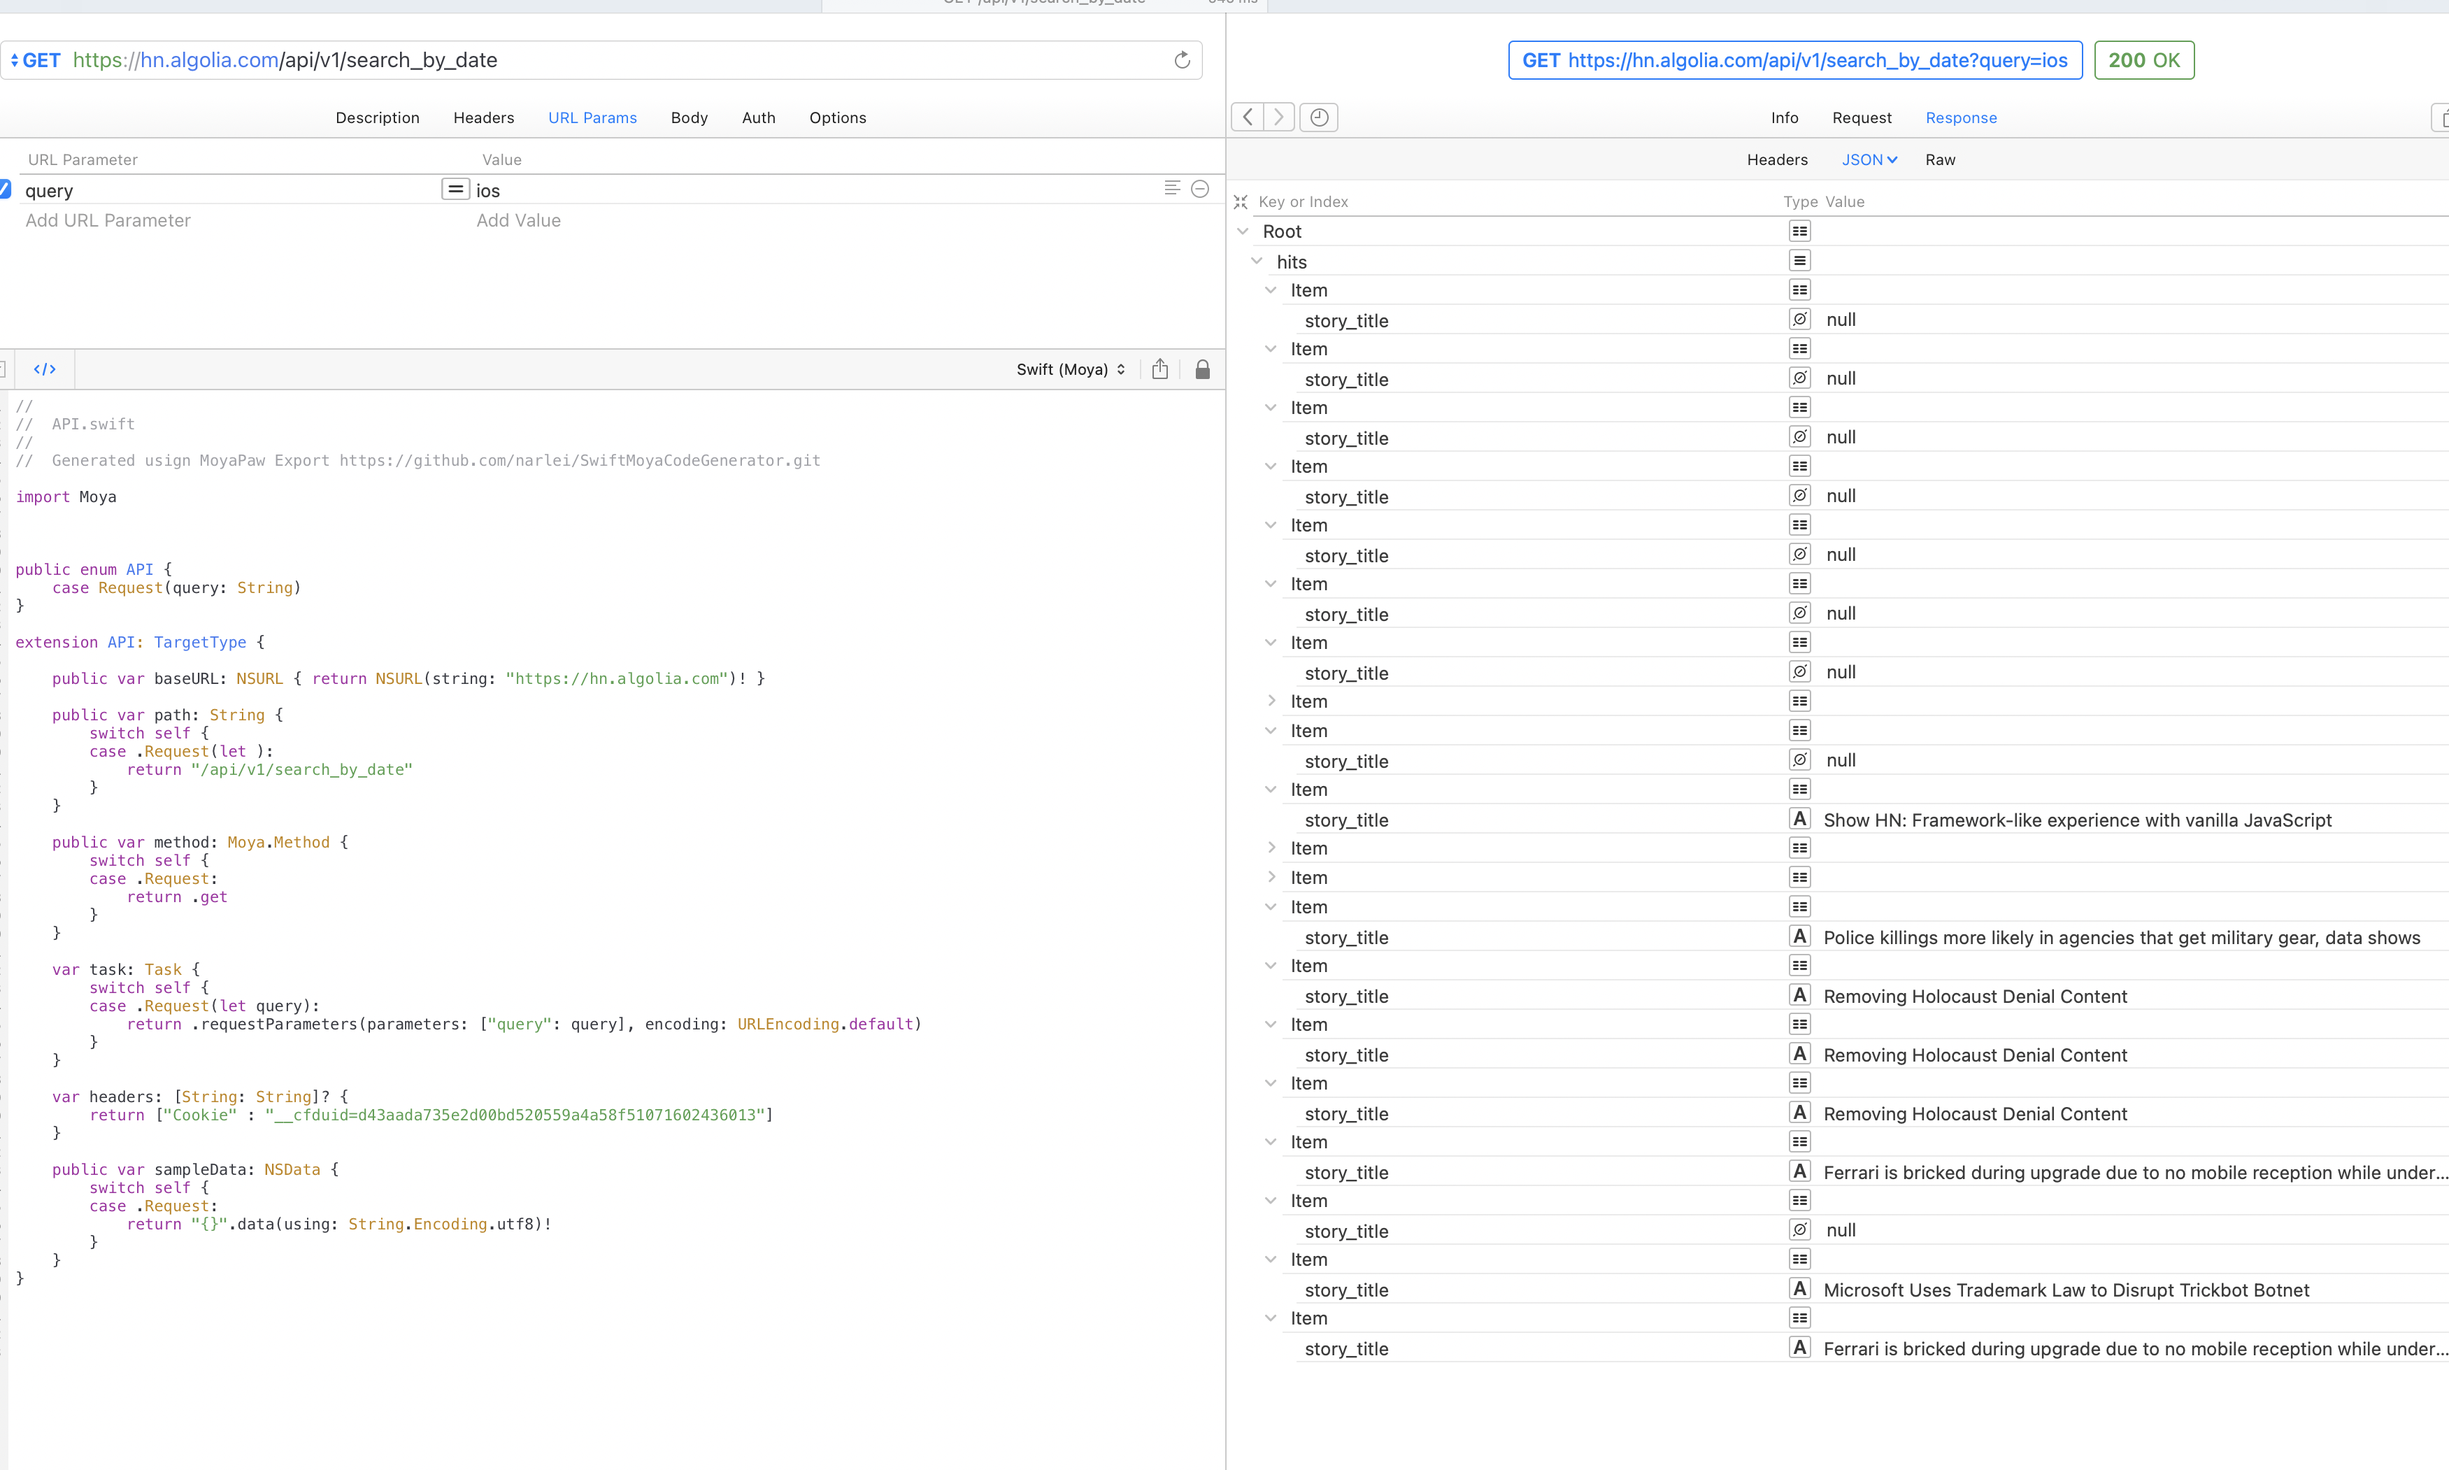
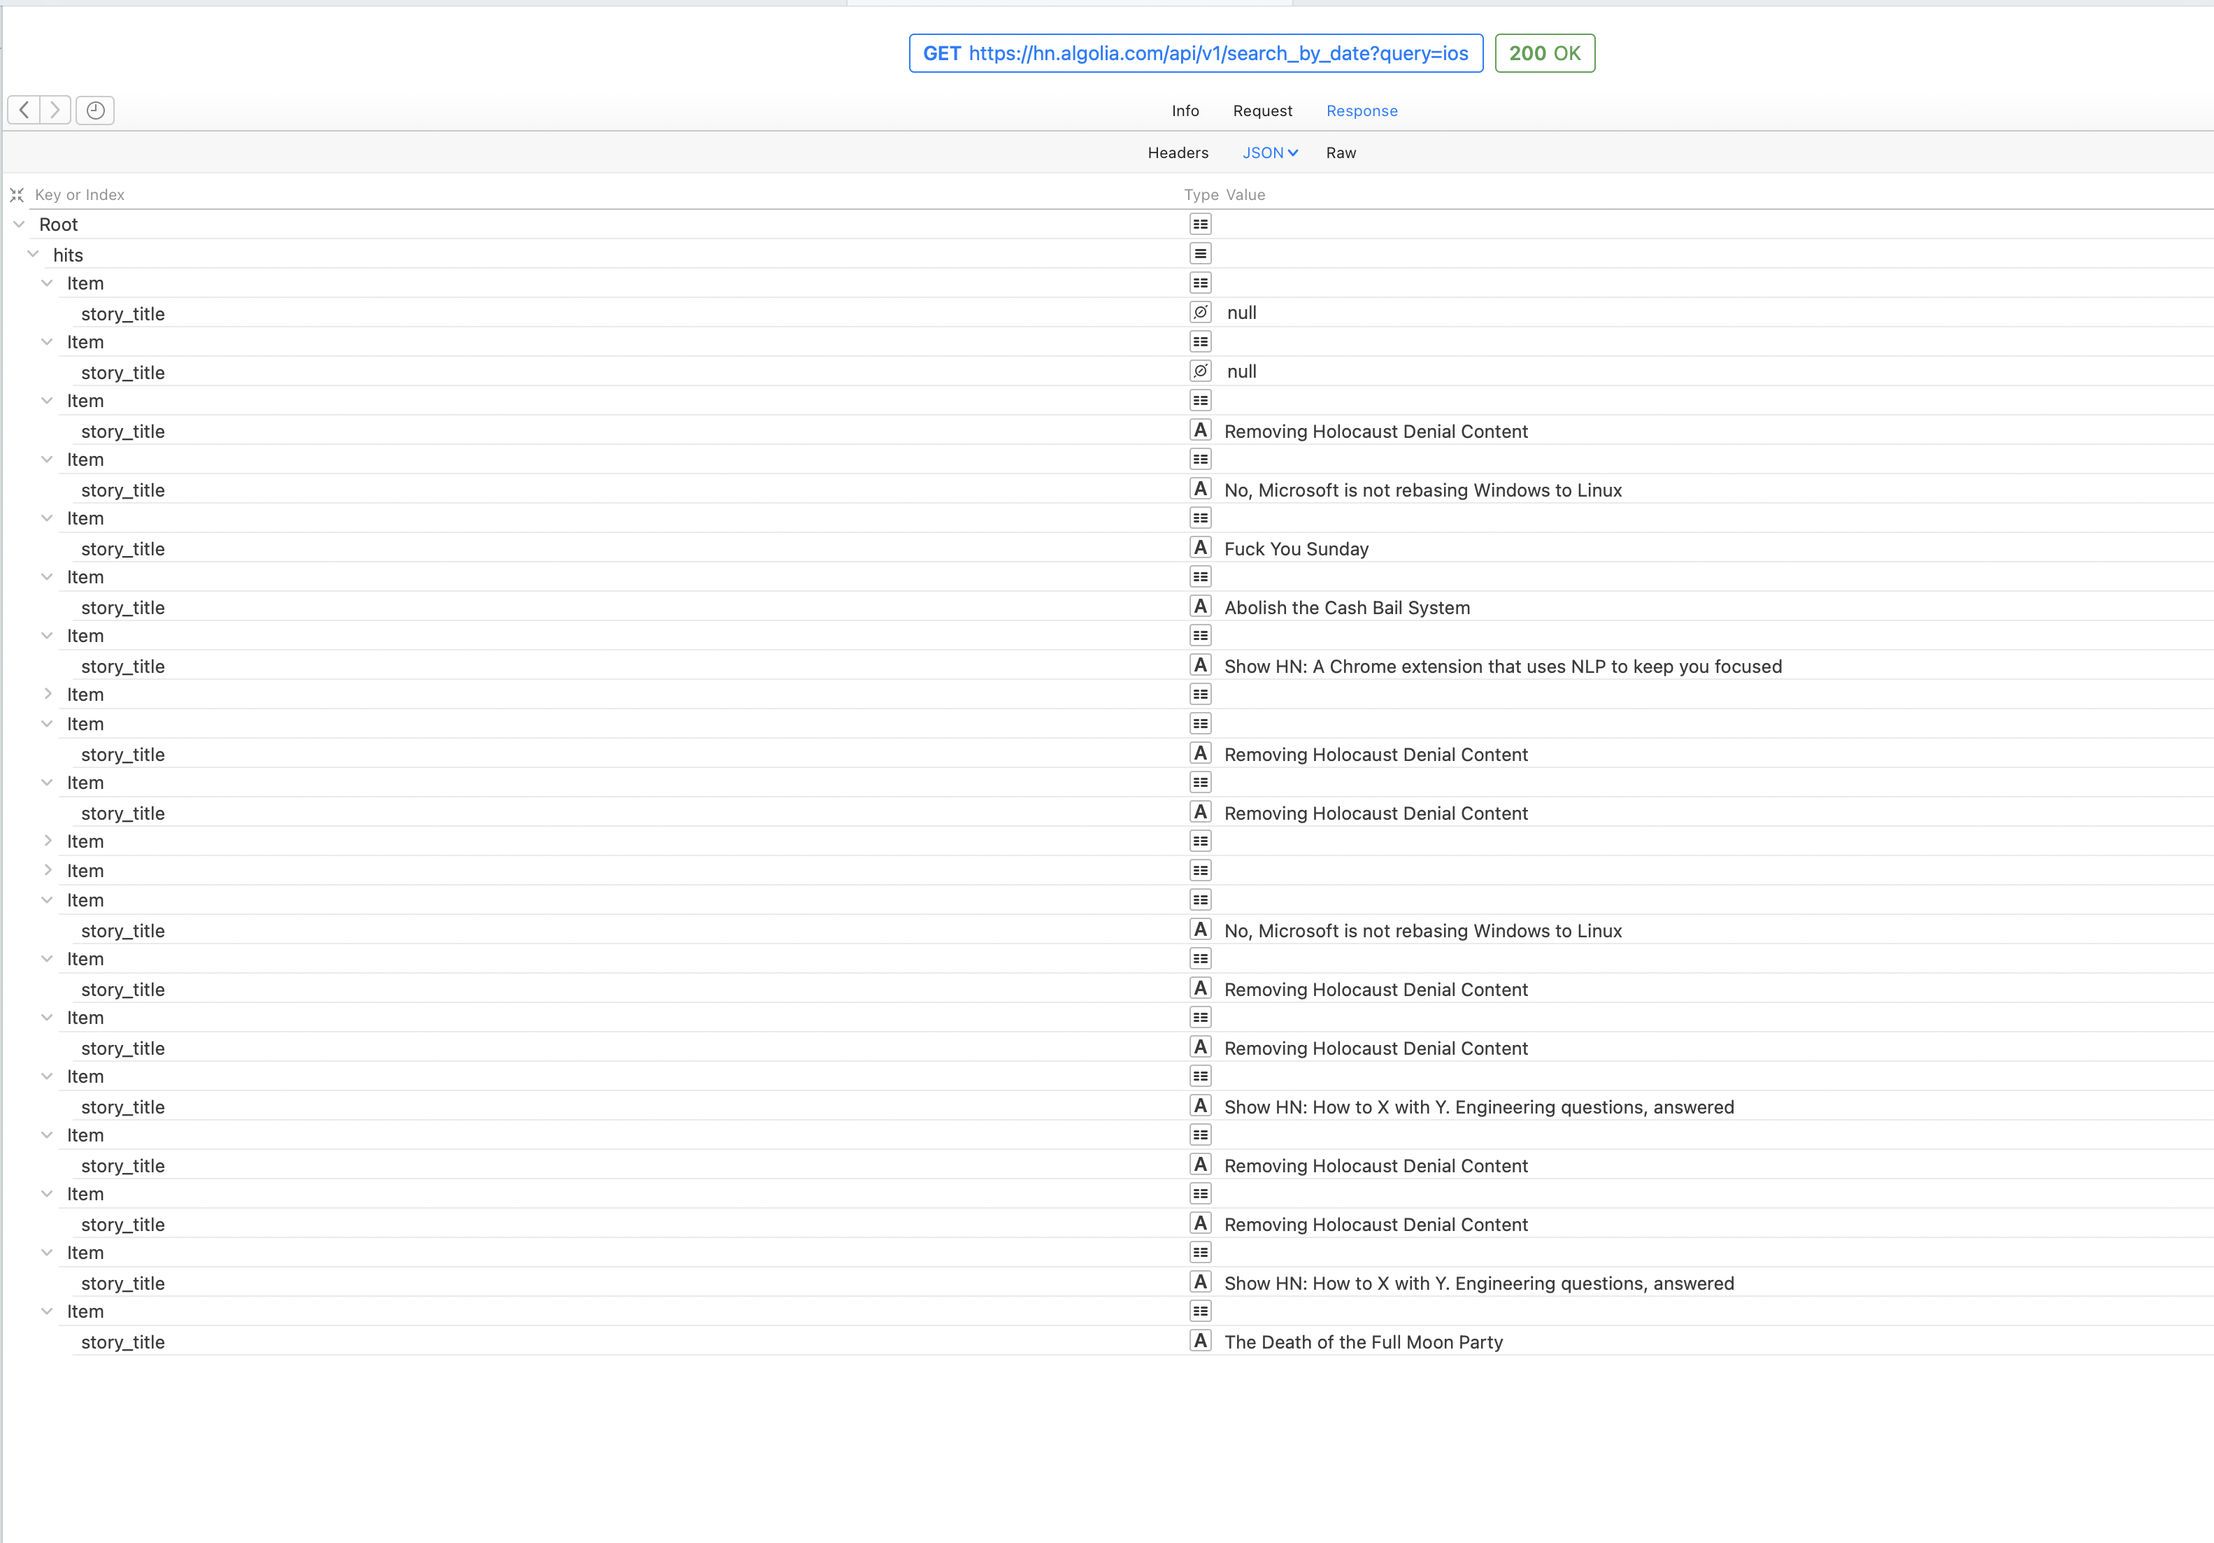
using a new capture for evidence

diff --git a/README.md b/README.md
@@ -29,7 +29,7 @@ Need to take a look of what's is happening out there with technology. this is yo
 About API
 -
 
-By testing multiple times API, I found that there are two scenarios where data comes duplicated or nil. I resolved to use story_title as primary_key in my database instead of objectID because information could give reviewers an impression of error in database. (please find evidence below)
+By testing multiple times API, I found that there are two scenarios where data comes duplicated or nil. I resolved to use objectID as primary key in database (data still comes duplicated anyway), a solution could be to threat story_title as primary key but this is not reccomended. (please find evidence below).
 
 ![GitHub Logo](Duplicates_Evidence.jpg)
 
